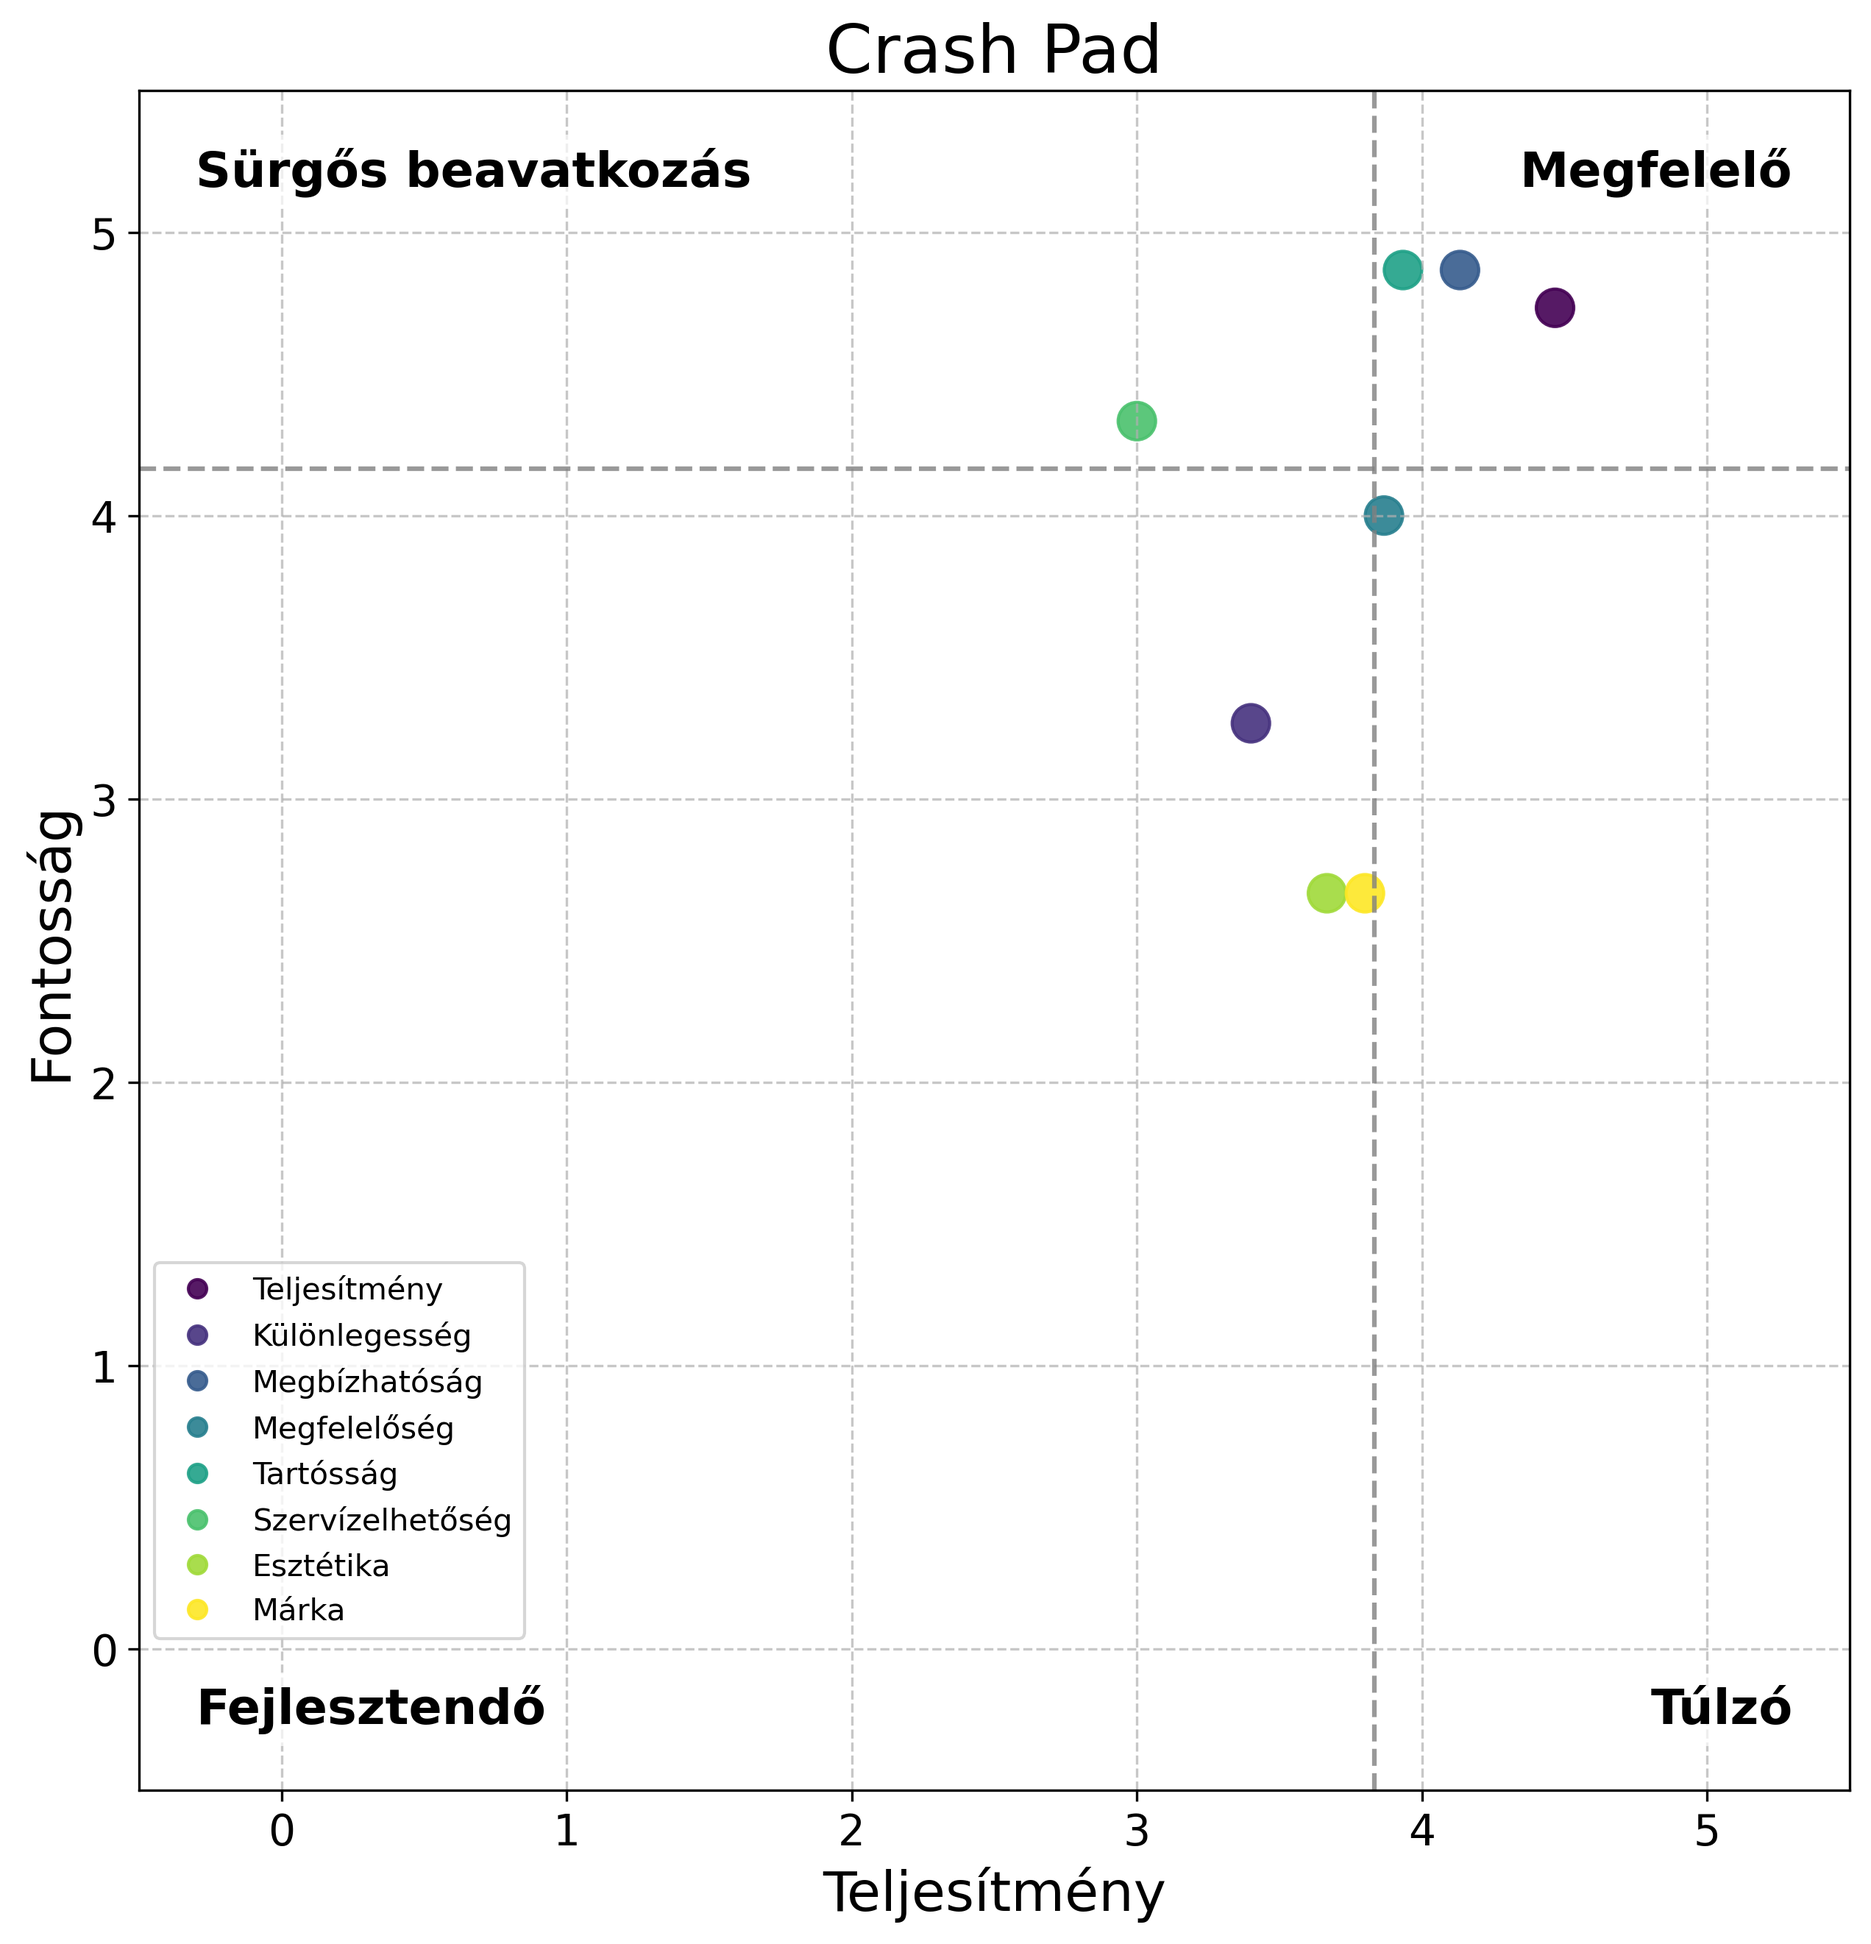
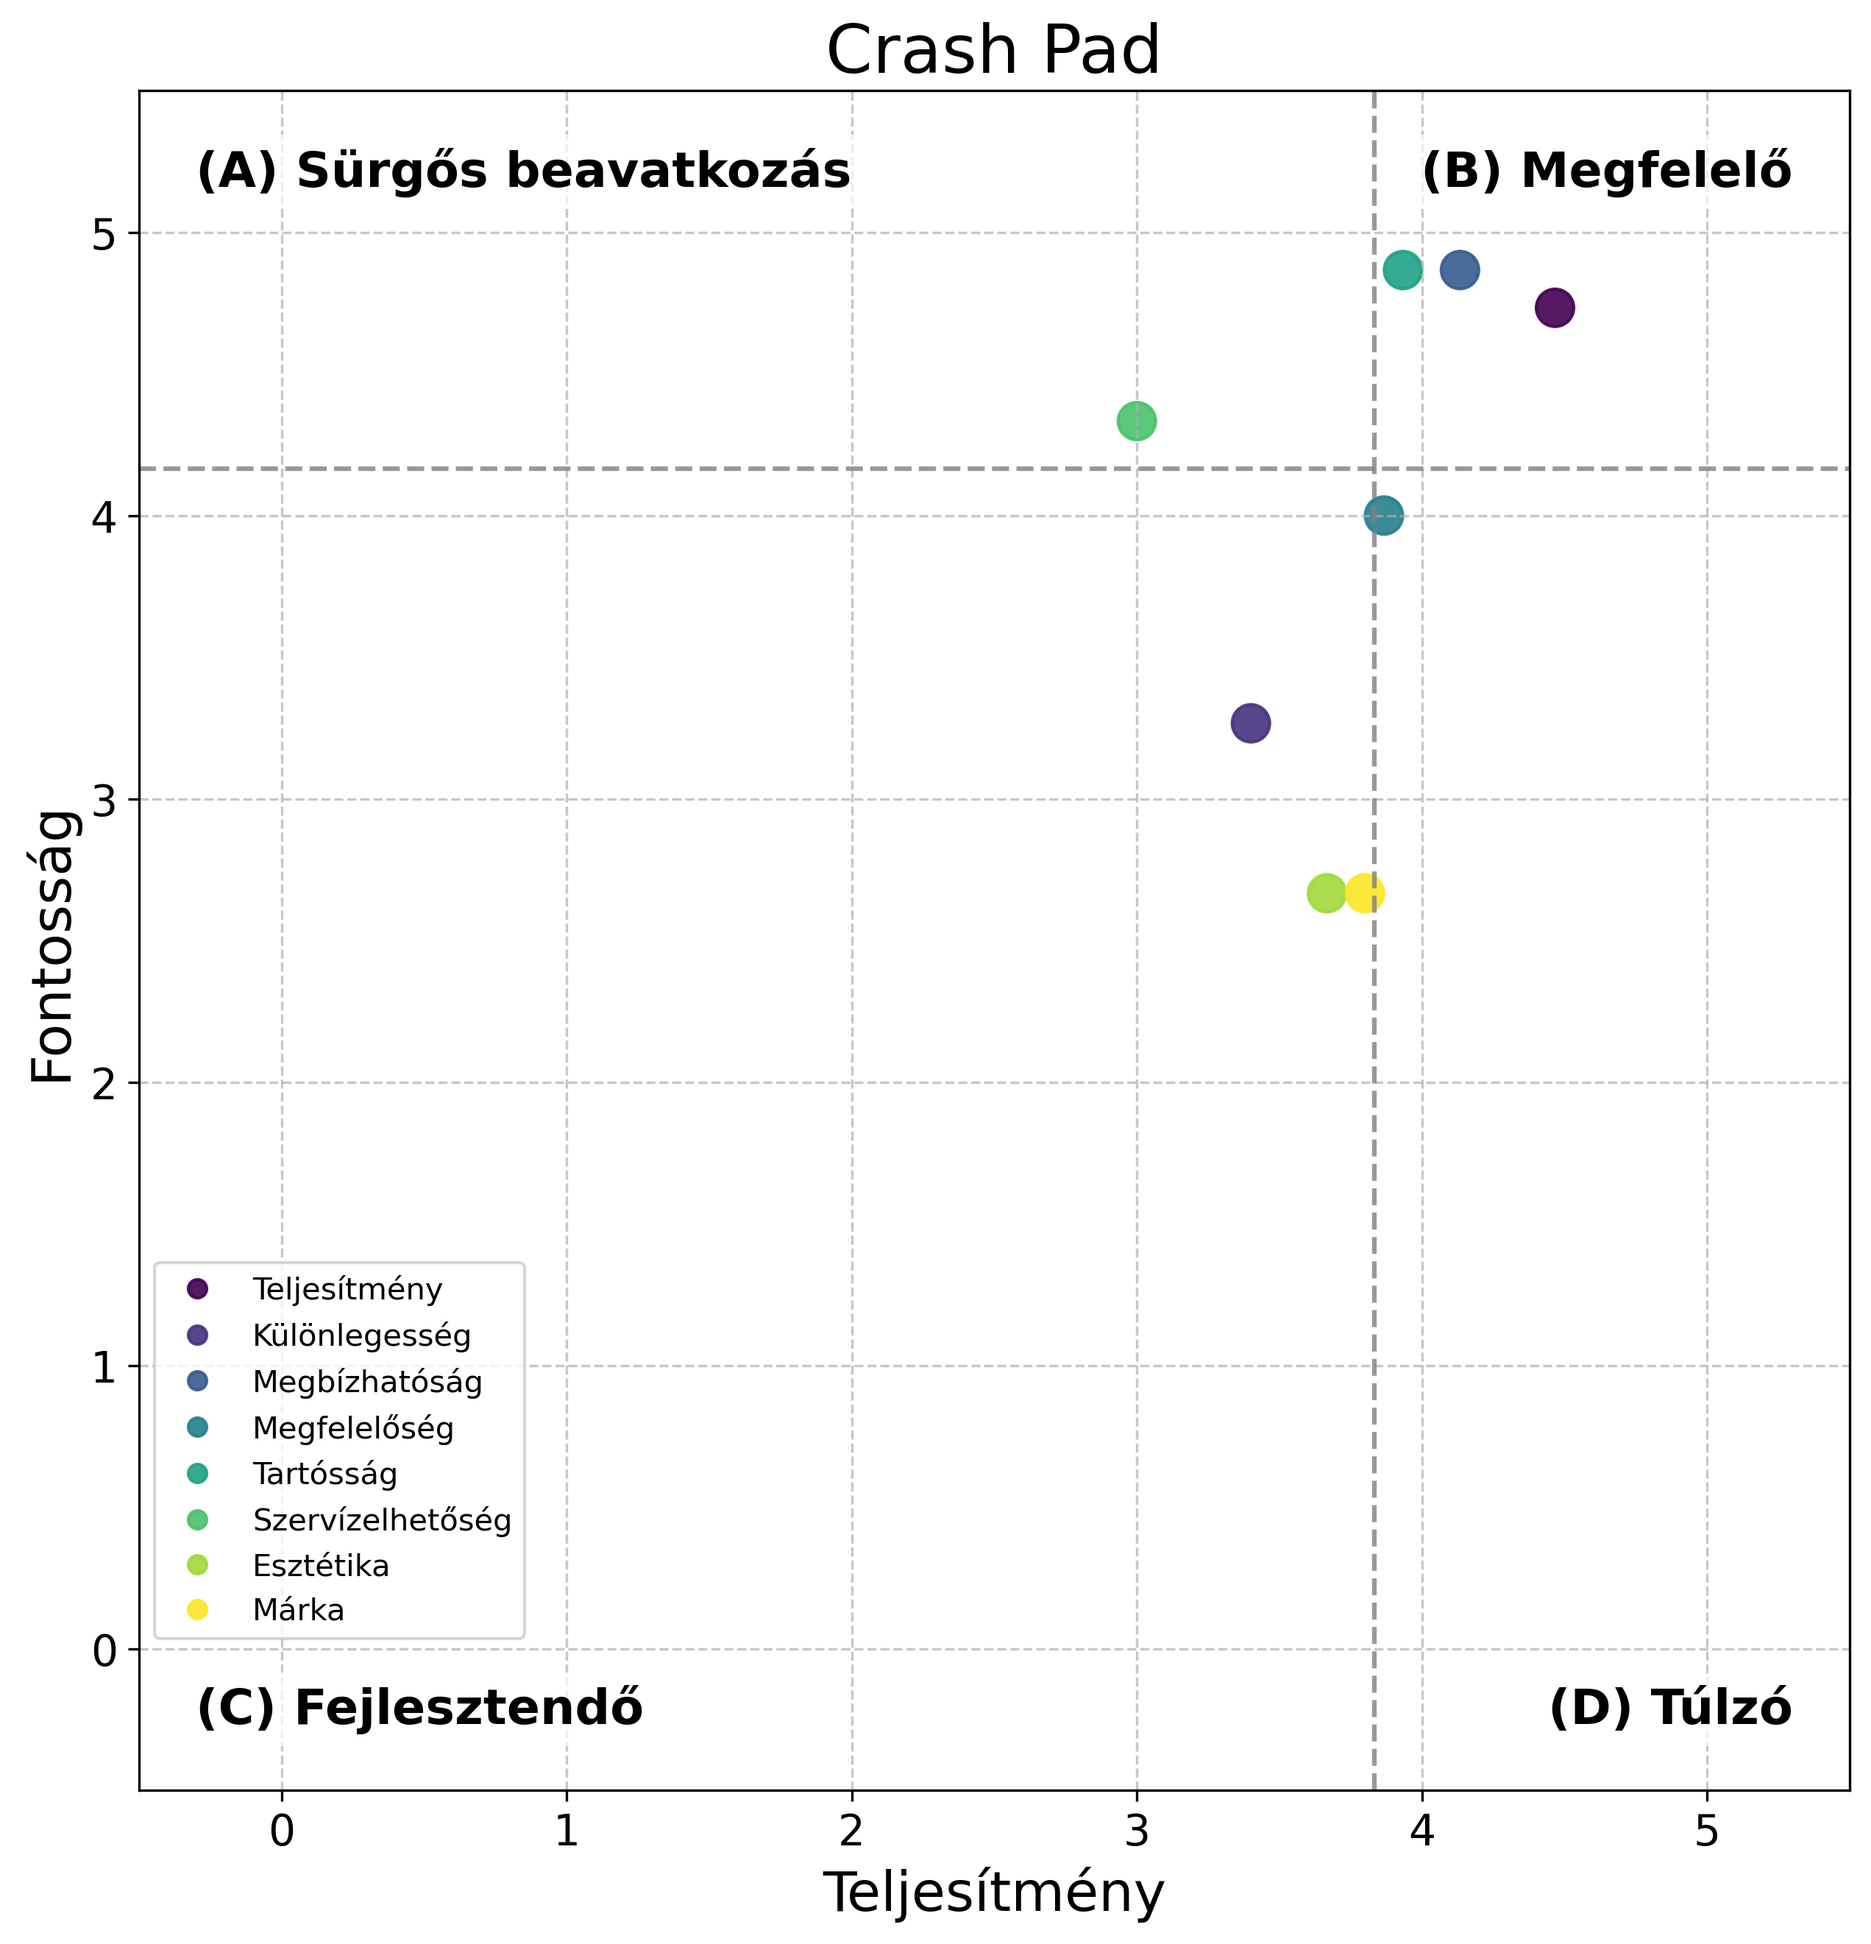
wip

diff --git a/main.py b/main.py
@@ -66,19 +66,19 @@ def create_importance_performance_plot(csv_path, output_path, title):
 
     # Quadrant A (Top-left)
     plt.text(x_min + margin, y_max - margin,
-             'Sürgős beavatkozás',
+             '(A) Sürgős beavatkozás',
              ha='left', va='top', fontsize=16, fontweight='bold', bbox=dict(facecolor='white', alpha=0.7, edgecolor='none'))
     # Quadrant B (Top-right)
     plt.text(x_max - margin, y_max - margin,
-             'Megfelelő',
+             '(B) Megfelelő',
              ha='right', va='top', fontsize=16, fontweight='bold', bbox=dict(facecolor='white', alpha=0.7, edgecolor='none'))
     # Quadrant C (Bottom-left)
     plt.text(x_min + margin, y_min + margin,
-             'Fejlesztendő',
+             '(C) Fejlesztendő',
              ha='left', va='bottom', fontsize=16, fontweight='bold', bbox=dict(facecolor='white', alpha=0.7, edgecolor='none'))
     # Quadrant D (Bottom-right)
     plt.text(x_max - margin, y_min + margin,
-             'Túlzó',
+             '(D) Túlzó',
              ha='right', va='bottom', fontsize=16, fontweight='bold', bbox=dict(facecolor='white', alpha=0.7, edgecolor='none'))
 
     # Create output directory if it doesn't exist
